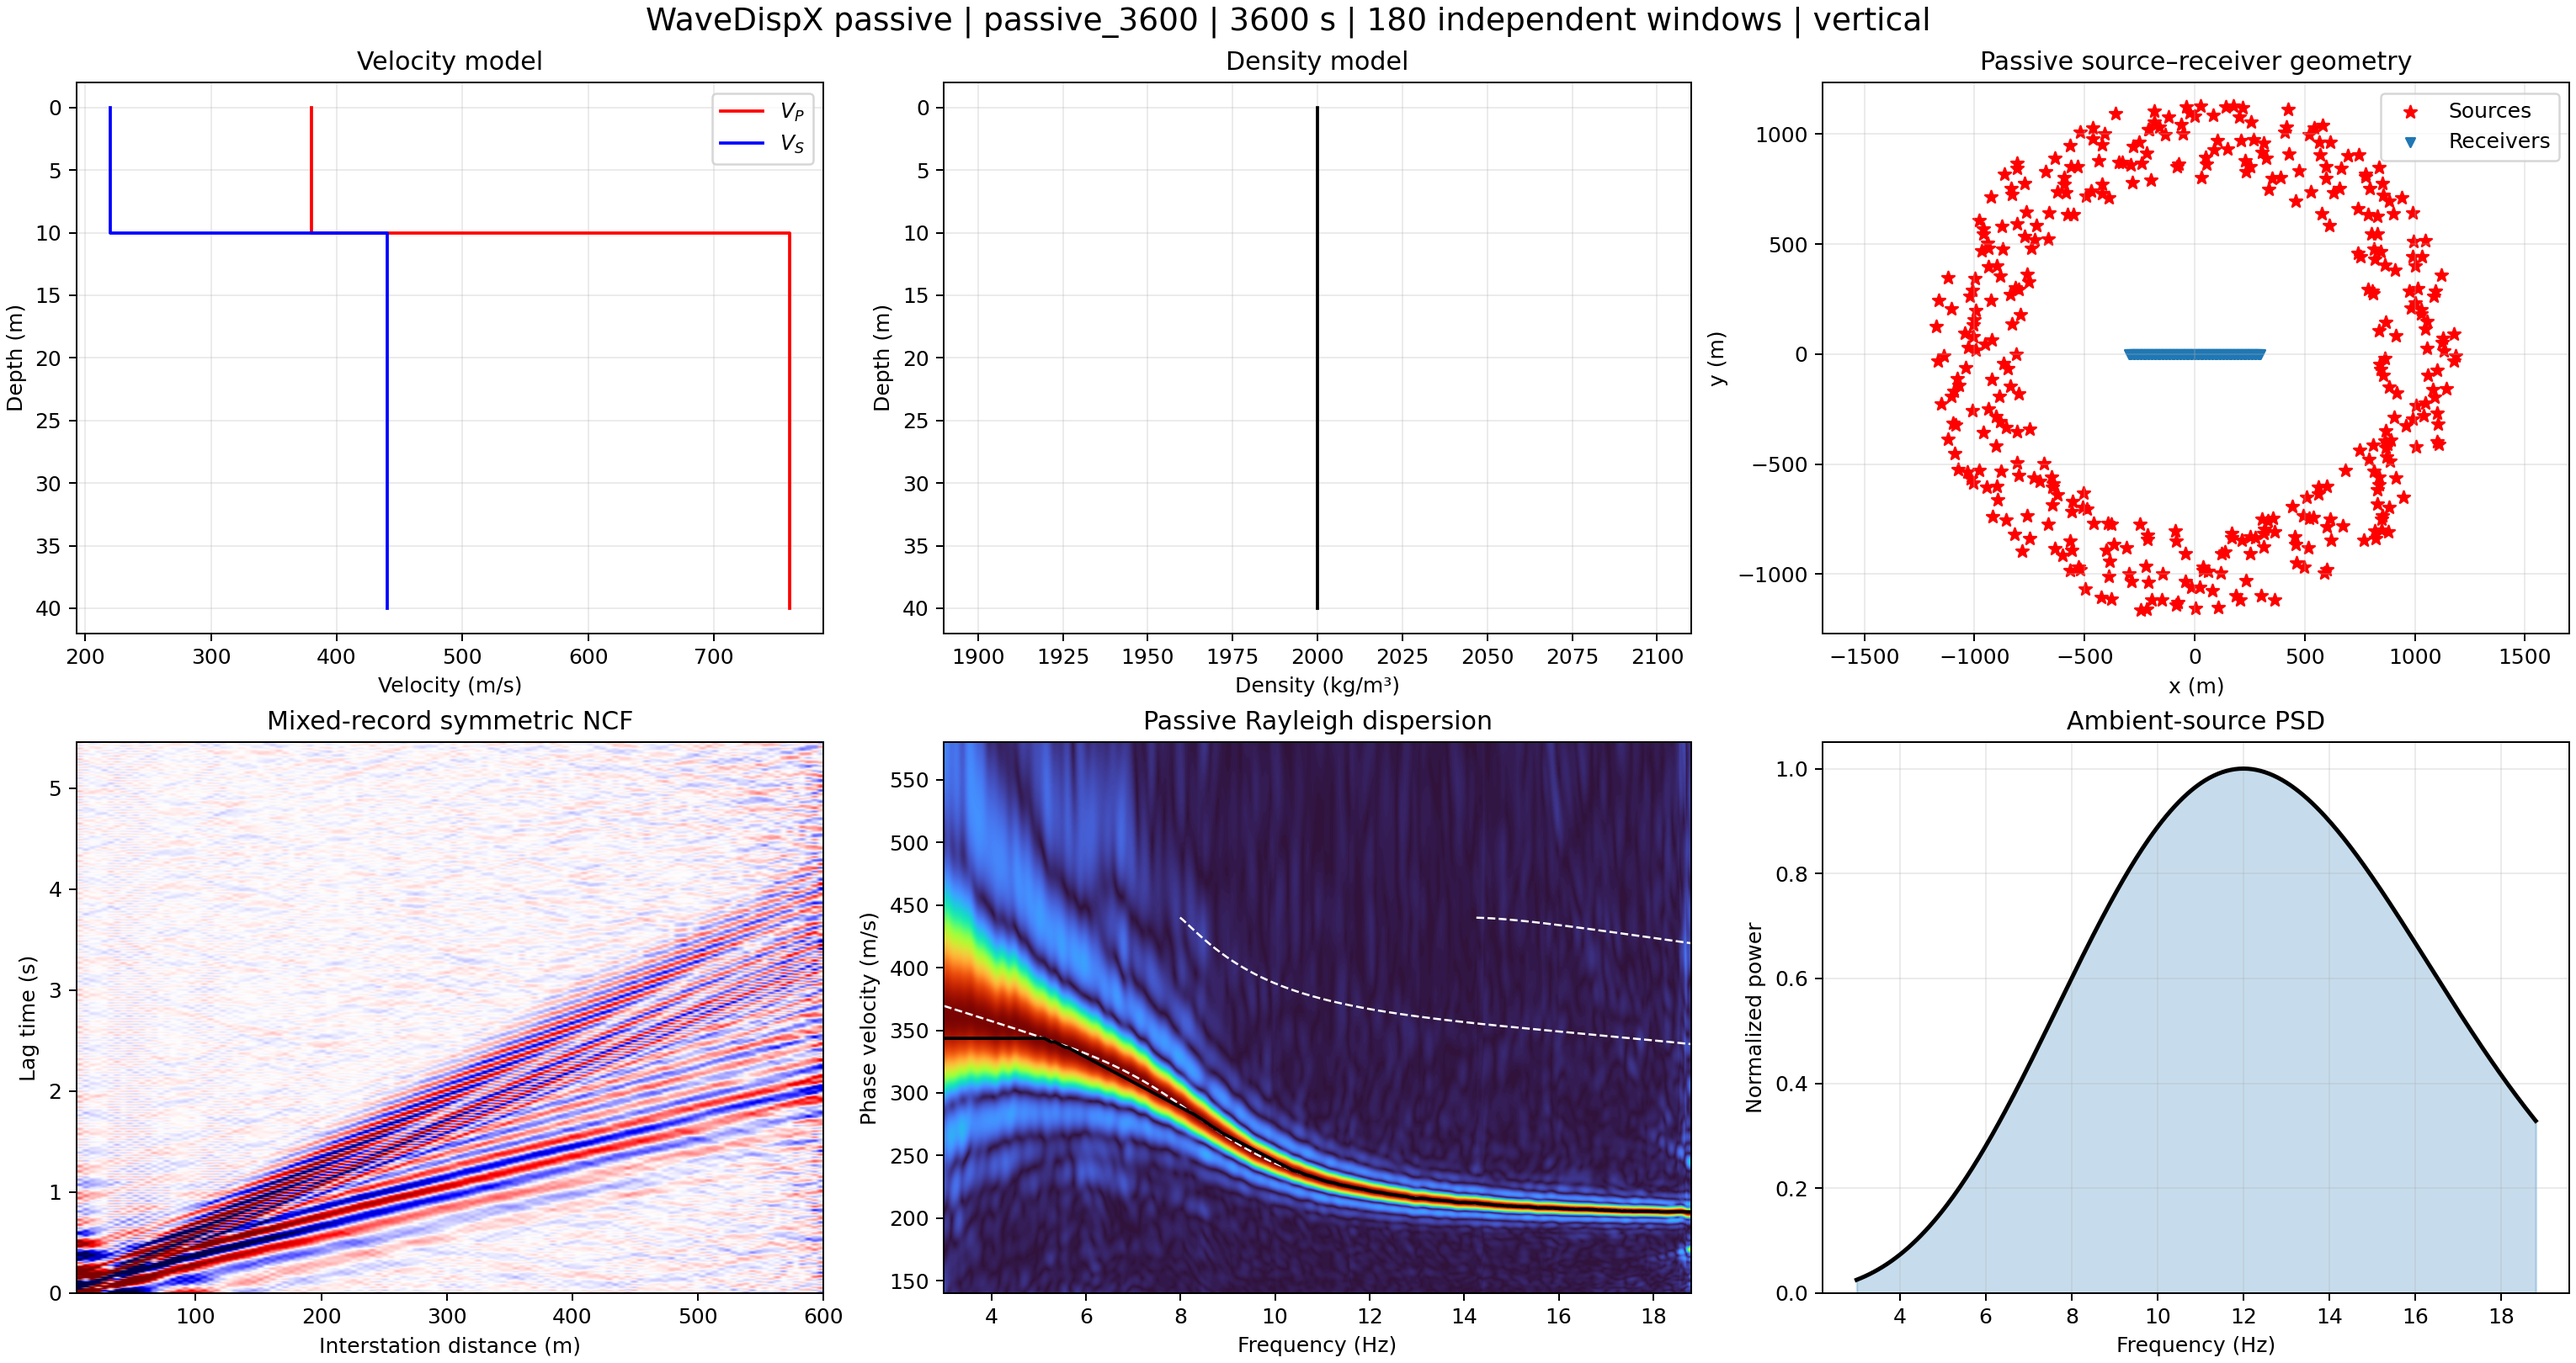
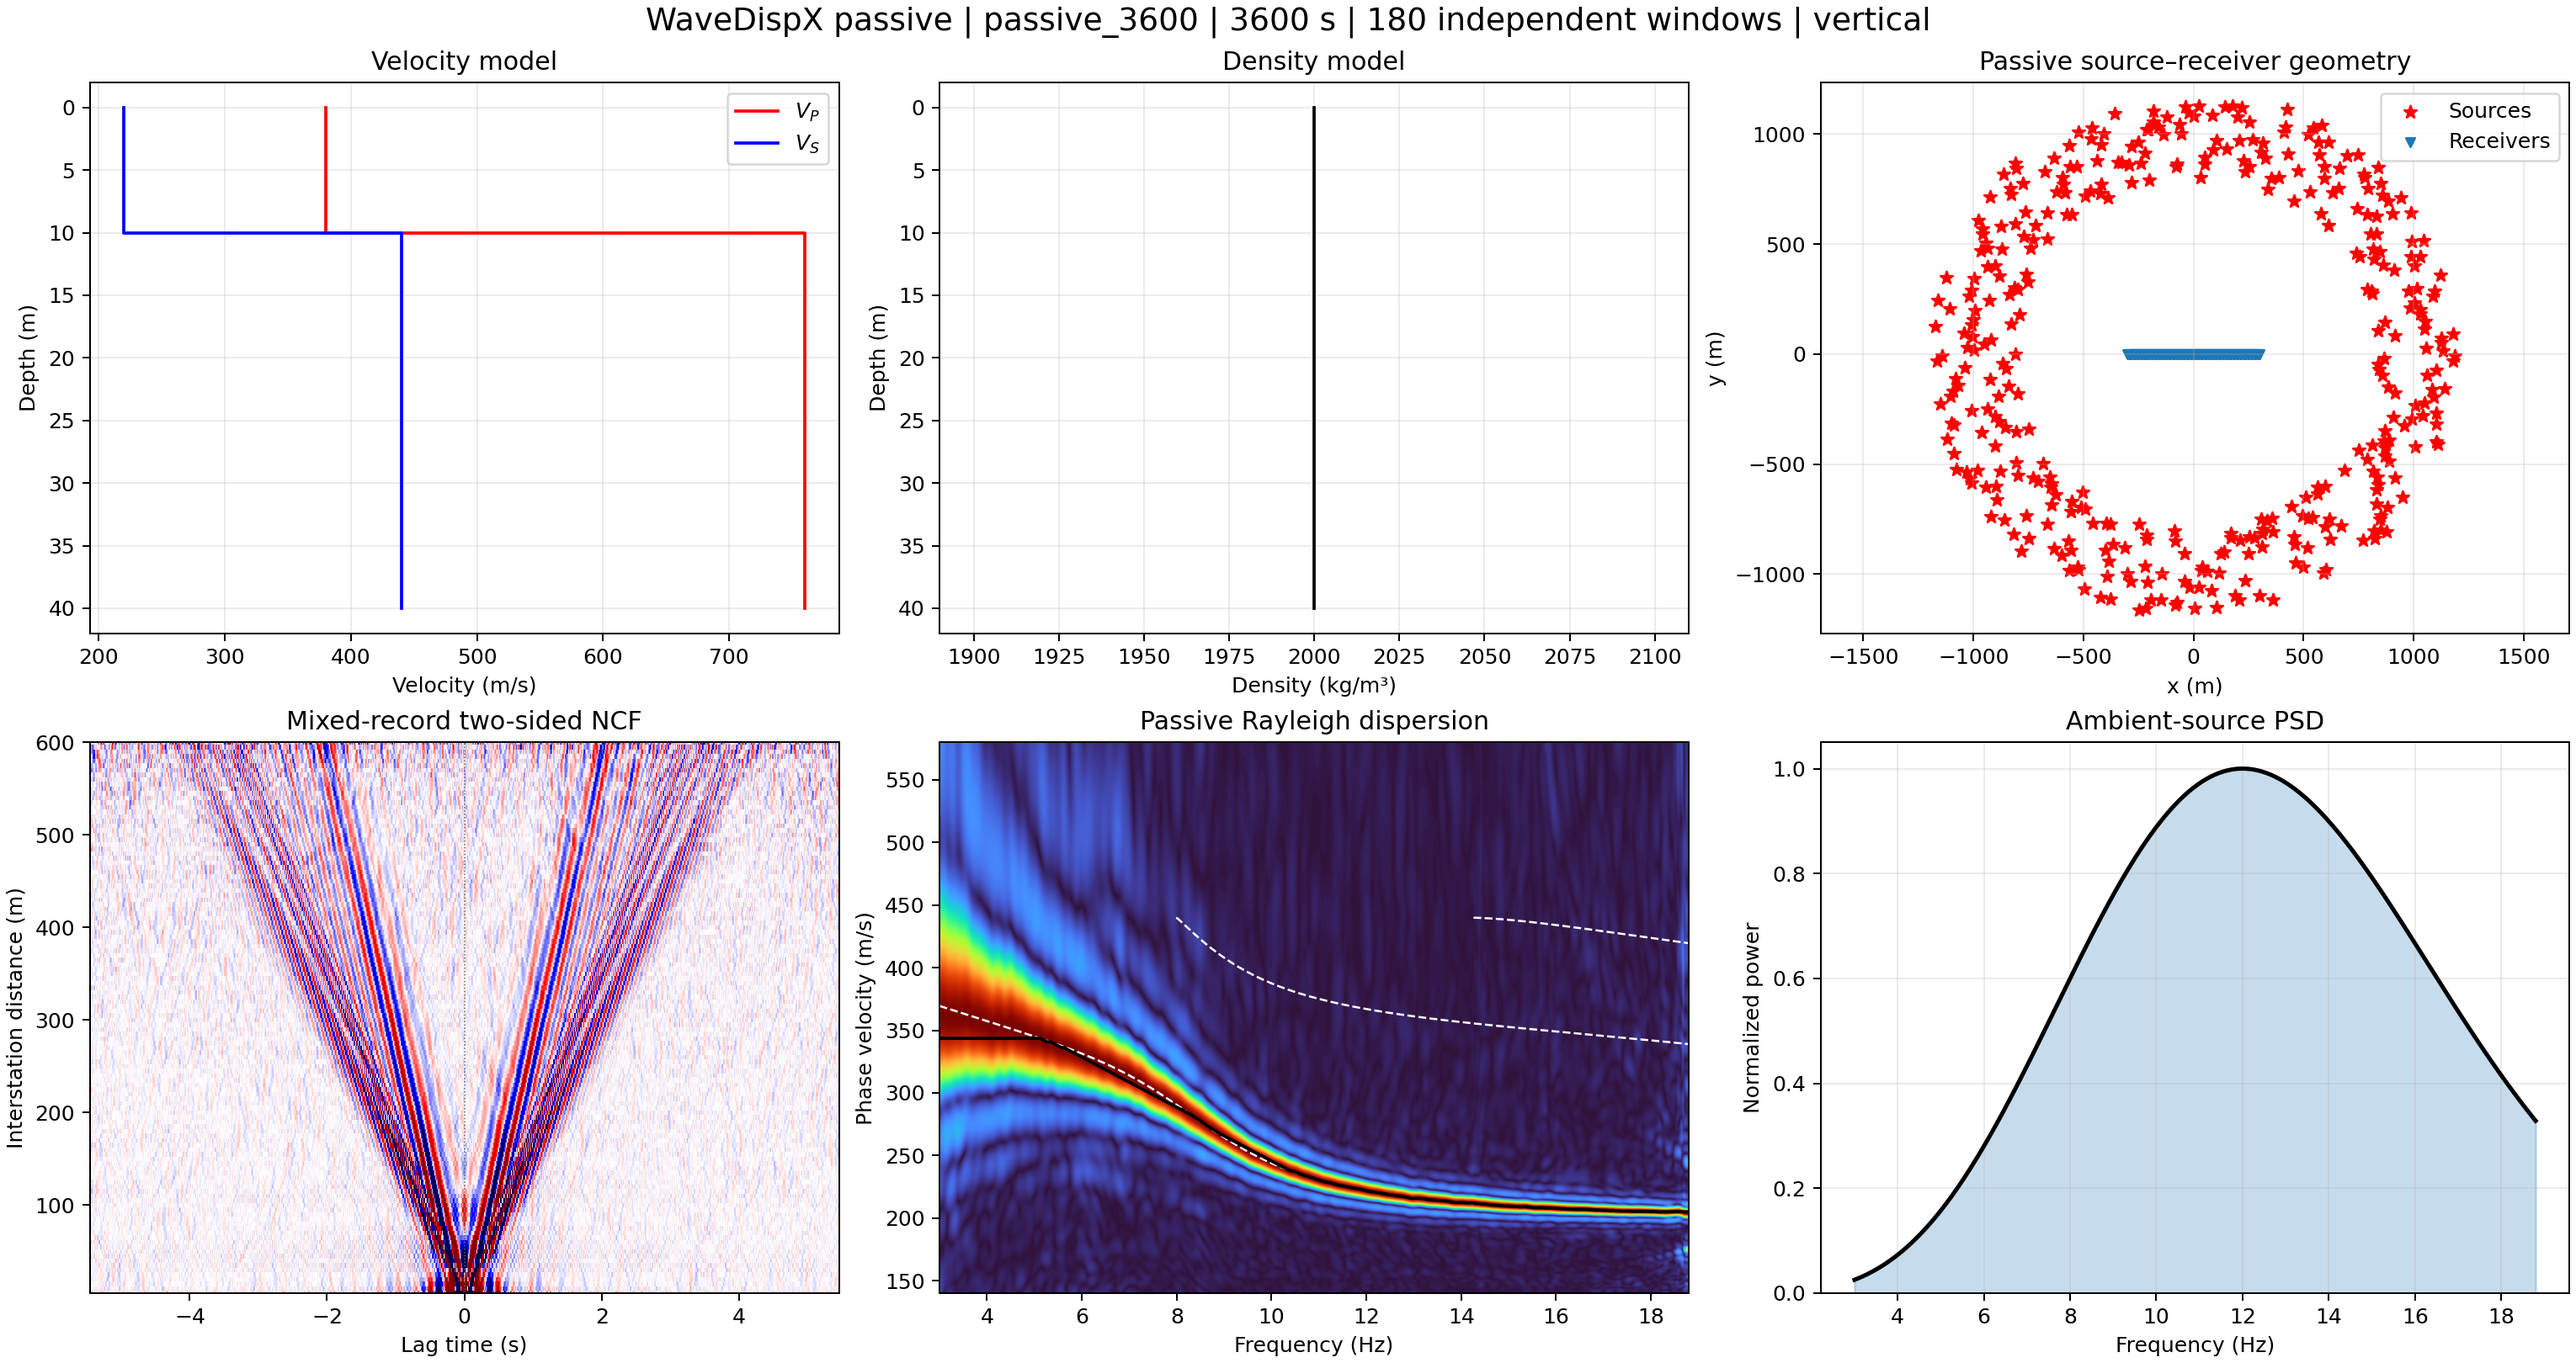
Display true two-sided NCF with lag horizontal and distance vertical

diff --git a/docs/WaveDispX_USER_MANUAL_CN.html b/docs/WaveDispX_USER_MANUAL_CN.html
@@ -60,6 +60,7 @@ S002,-20,0</pre>
 
 <section id="cases"><h2>7. 看实际波形和完整结果</h2><figure><a href="manual_assets/current-active-results.png"><img src="manual_assets/current-active-results.png" alt="当前主动结果浏览完整窗口"></a><figcaption>结果浏览页可切换汇总图、分量图和方法对照，并打开输出目录。</figcaption></figure>
 <h3>主要示例：宽频主动源与长记录被动源</h3>
+<p><strong>波形坐标约定：</strong>主动shot gather横轴为offset，纵轴为时间，0在上、时间向下增加（这是时间轴，不是深度轴）。被动NCF横轴为−T到+T的lag，纵轴为台间距，近距在下、远距在上。双边图使用真实负/正分支，不镜像对称叠加结果；频散成像仍使用原有正lag对称叠加数据，不因换图轴而改变。红蓝颜色共用整图99%绝对振幅分位裁色，未逐道归一化。</p>
 <p>本节更新后全量回归254项通过。它验证软件行为，不等于全部物理/统计收敛。</p>
 <p>新会话默认使用“被动源｜长记录示例”（384源、1800 s），而不是24源60秒quick；已打开的旧会话需自行载入模板，避免覆盖未保存编辑。下面被动主图在同一配置基础上显式延长到3600 s。</p>
 <table><tr><th>本轮实际参数</th><th>主动</th><th>被动主图</th></tr><tr><td>处理频带</td><td>4.06263–44.106054 Hz</td><td>3–18.8 Hz</td></tr><tr><td>速度范围 / dv</td><td>140–580 m/s / 0.5 m/s</td><td>140–580 m/s / 0.2 m/s</td></tr><tr><td>输出 df</td><td>0.1 Hz</td><td>0.01 Hz</td></tr><tr><td>实际保存记录 / NCF lag</td><td>2.301 s周期；末样点2.300 s；dt=0.001 s</td><td>总长3600 s；窗长20 s；最大lag=5.455 s；dt=0.005 s</td></tr><tr><td>不同时间尺度的频率间隔</td><td>1/2.301≈0.435 Hz</td><td>单噪声窗1/20=0.05 Hz；保留正lag的FFT周期5.46 s，对应约0.183 Hz</td></tr></table>

diff --git a/scripts/replot_passive_summary.py b/scripts/replot_passive_summary.py
@@ -1,0 +1,61 @@
+"""Replot saved passive data without forward/NCF/imaging recomputation."""
+import argparse
+import hashlib
+from pathlib import Path
+from types import SimpleNamespace as NS
+
+import h5py
+import matplotlib.pyplot as plt
+import numpy as np
+
+from wavedispx.config import load_config
+from wavedispx.geometry import Geometry
+from wavedispx.plotting import plot_ncf_branches, plot_passive_summary
+
+
+def main():
+    parser = argparse.ArgumentParser(description=__doc__)
+    parser.add_argument("directory", type=Path)
+    parser.add_argument("--output", type=Path)
+    args = parser.parse_args()
+    directory = args.directory
+    output = args.output or directory / "summary_two_sided.png"
+    data_path = directory / "results.h5"
+    before = hashlib.sha256(data_path.read_bytes()).hexdigest()
+    config = load_config(directory / "input.toml")
+    if config.das.enabled:
+        raise ValueError("This saved-summary utility currently supports node cases only; use the live DAS workflow plots.")
+    receivers = np.loadtxt(directory / "receivers.csv", delimiter=",", skiprows=1, ndmin=2)
+    sources = np.loadtxt(directory / "sources.csv", delimiter=",", skiprows=1, ndmin=2)
+    picks = np.loadtxt(directory / "picked_rayleigh.csv", delimiter=",", skiprows=1, ndmin=2)
+    with h5py.File(data_path, "r") as handle:
+        ncf = handle["ncf"]
+        strategy = handle["ncf/strategies/baseline_linear"]
+        branches = {}
+        for name, group in strategy["components"].items():
+            branches[name] = NS(**{
+                side: NS(data=group[side][:], lag_time_s=strategy["lag_time_s"][:],
+                         distance_m=strategy["distance_m"][:])
+                for side in ("negative", "positive", "symmetric")})
+        image = handle["dispersion/rayleigh"]
+        simulation = NS(
+            geometry=Geometry(receivers[:, 0], receivers[:, 1], sources[:, 0], sources[:, 1]),
+            transfer=NS(das_geometry=None, frequency_hz=handle["transfer/frequency_hz"][:]),
+            ncf=NS(data=ncf["gather"][:], lag_time_s=ncf["lag_time_s"][:], distance_m=ncf["distance_m"][:]),
+            strategy_stacks={"baseline_linear": NS(component_branches=branches)},
+            dispersion=NS(**{key: image[key][:] for key in ("energy", "frequency_hz", "velocity_mps")}),
+            theory=NS(rayleigh_mps=handle["theory/rayleigh_mps"][:]),
+            picks=NS(frequency_hz=picks[:, 0], phase_velocity_mps=picks[:, 1]),
+            independent_window_count=int(strategy.attrs["windows_seen"]),
+        )
+    plot_passive_summary(config, simulation, output)
+    fig, ax = plt.subplots(figsize=(10, 5), layout="constrained")
+    plot_ncf_branches(ax, branches["zz"], title="Actual two-sided ZZ NCF | distance increases upward")
+    fig.savefig(output.with_name(output.stem + "-ncf.png"), dpi=160)
+    plt.close(fig)
+    assert hashlib.sha256(data_path.read_bytes()).hexdigest() == before
+    print(f"Unchanged results.h5 SHA256: {before}\nSaved: {output}")
+
+
+if __name__ == "__main__":
+    main()

diff --git a/python_src/wavedispx/plotting.py b/python_src/wavedispx/plotting.py
@@ -19,6 +19,30 @@ from .processing import DispersionImage, DispersionPicks, TheoreticalDispersion
 from .noise import source_spectral_amplitude
 
 
+def plot_ncf_branches(axis, branches, *, title: str):
+    """Display actual negative/positive NCF, never mirror the symmetric stack.
+
+    Stored branch axes are both nonnegative lag magnitudes. Reverse the
+    negative branch, omit its duplicate zero, and sort distances for display.
+    """
+    positive, negative = branches.positive, branches.negative
+    if (not np.array_equal(positive.lag_time_s, negative.lag_time_s)
+            or not np.array_equal(positive.distance_m, negative.distance_m)):
+        raise ValueError("positive/negative NCF axes must match")
+    lag = np.concatenate((-negative.lag_time_s[:0:-1], positive.lag_time_s))
+    data = np.concatenate((negative.data[:0:-1], positive.data), axis=0)
+    order = np.argsort(positive.distance_m)
+    distance = positive.distance_m[order]
+    scale = max(float(np.percentile(np.abs(data), 99.0)), np.finfo(float).tiny)
+    artist = axis.pcolormesh(lag, distance, data[:, order].T,
+                            shading="nearest", cmap="seismic", vmin=-scale, vmax=scale)
+    axis.set(xlabel="Lag time (s)", ylabel="Interstation distance (m)", title=title)
+    axis.set_xlim(lag[0], lag[-1])
+    axis.set_ylim(distance[0], distance[-1])
+    axis.axvline(0, color="0.4", linewidth=0.6, linestyle=":")
+    return artist
+
+
 def _plot_das_geometry(axis, geometry) -> None:
     if geometry is None:
         return
@@ -305,31 +329,16 @@ def plot_passive_summary(
     axes[0, 2].legend()
     axes[0, 2].grid(alpha=0.25)
     axes[0, 2].set_aspect("equal", adjustable="datalim")
-    ncf = simulation.ncf.data
-    ncf_scale = np.percentile(np.abs(ncf), 99.0)
-    axes[1, 0].imshow(
-        ncf,
-        origin="lower",
-        aspect="auto",
-        extent=(
-            simulation.ncf.distance_m[0],
-            simulation.ncf.distance_m[-1],
-            simulation.ncf.lag_time_s[0],
-            simulation.ncf.lag_time_s[-1],
-        ),
-        cmap="seismic",
-        vmin=-ncf_scale,
-        vmax=ncf_scale,
-    )
-    axes[1, 0].set(
-        xlabel="Interstation distance (m)",
-        ylabel="Lag time (s)",
+    component = "das" if config.das.enabled else "zz"
+    plot_ncf_branches(
+        axes[1, 0],
+        simulation.strategy_stacks["baseline_linear"].component_branches[component],
         title=(
-            "Mixed-record symmetric DAS-DAS NCF"
+            "Mixed-record two-sided DAS-DAS NCF"
             if config.das.enabled
-            else "Mixed-record symmetric ZZ NCF"
+            else "Mixed-record two-sided ZZ NCF"
             if config.ambient_sources.component == "three_component"
-            else "Mixed-record symmetric NCF"
+            else "Mixed-record two-sided NCF"
         ),
     )
     _plot_dispersion(

diff --git a/python_src/wavedispx/workflow_plotting.py b/python_src/wavedispx/workflow_plotting.py
@@ -6,6 +6,7 @@ import matplotlib.pyplot as plt
 import numpy as np
 
 from .workflow import WaveDispXWorkflow
+from .plotting import plot_ncf_branches
 
 
 def plot_receiver_layout_comparison(reviews: dict[str, object]):
@@ -198,25 +199,9 @@ def plot_workflow_observations(workflow: WaveDispXWorkflow):
             )
         ),
     )
-    ncf = observations.ncf.data
-    ncf_scale = np.percentile(np.abs(ncf), 99.0)
-    axes[1].imshow(
-        ncf,
-        origin="lower",
-        aspect="auto",
-        extent=(
-            observations.ncf.distance_m[0],
-            observations.ncf.distance_m[-1],
-            observations.ncf.lag_time_s[0],
-            observations.ncf.lag_time_s[-1],
-        ),
-        cmap="seismic",
-        vmin=-ncf_scale,
-        vmax=ncf_scale,
-    )
-    axes[1].set(
-        xlabel="Interreceiver distance (m)",
-        ylabel="Lag time (s)",
+    branches = observations.strategy_stacks["baseline_linear"].component_branches
+    plot_ncf_branches(
+        axes[1], branches["das" if workflow.config.das.enabled else "zz"],
         title=(
             f"DAS–DAS NCF ({observations.independent_window_count} windows)"
             if workflow.config.das.enabled
@@ -224,26 +209,14 @@ def plot_workflow_observations(workflow: WaveDispXWorkflow):
         ),
     )
     if three_component:
-        rr = observations.component_ncfs["rr"]
-        rr_scale = np.percentile(np.abs(rr.data), 99.0)
-        axes[2].imshow(
-            rr.data,
-            origin="lower",
-            aspect="auto",
-            extent=(rr.distance_m[0], rr.distance_m[-1], rr.lag_time_s[0], rr.lag_time_s[-1]),
-            cmap="seismic",
-            vmin=-rr_scale,
-            vmax=rr_scale,
-        )
-        axes[2].set(
-            xlabel="Interreceiver distance (m)",
-            ylabel="Lag time (s)",
+        plot_ncf_branches(
+            axes[2], branches["rr"],
             title=f"Pair-rotated RR NCF ({observations.independent_window_count} windows)",
         )
     figure.suptitle(
         f"Passive finite record {workflow.config.noise.duration_s:g} s | "
         f"independent window {workflow.config.noise.window_s:g} s | "
-        f"displayed NCF lag 0–{observations.ncf.lag_time_s[-1]:.3f} s"
+        f"two-sided NCF lag ±{observations.ncf.lag_time_s[-1]:.3f} s"
     )
     return figure
 

diff --git a/python_tests/test_plotting_axes.py b/python_tests/test_plotting_axes.py
@@ -1,0 +1,38 @@
+from types import SimpleNamespace as NS
+
+import matplotlib.pyplot as plt
+import numpy as np
+
+from wavedispx.plotting import plot_ncf_branches
+from wavedispx.workflow_plotting import plot_workflow_forward
+
+
+def test_ncf_uses_true_negative_branch_single_zero_and_near_to_far_rows():
+    lag = np.array([0., 1., 2.])
+    distance = np.array([20., 5.])
+    pos = np.array([[0., 0.], [1., 2.], [3., 4.]])
+    neg = np.array([[0., 0.], [10., 20.], [30., 40.]])
+    branches = NS(positive=NS(lag_time_s=lag, distance_m=distance, data=pos),
+                  negative=NS(lag_time_s=lag, distance_m=distance, data=neg))
+    fig, ax = plt.subplots()
+    mesh = plot_ncf_branches(ax, branches, title="Test")
+    np.testing.assert_array_equal(mesh.get_array(), [[40., 20., 0., 2., 4.], [30., 10., 0., 1., 3.]])
+    assert ax.get_xlim() == (-2., 2.)
+    assert ax.get_ylim() == (5., 20.)
+    assert ax.get_xlabel() == "Lag time (s)"
+    np.testing.assert_array_equal(branches.negative.data, neg)
+    plt.close(fig)
+
+
+def test_active_gather_keeps_time_zero_at_top():
+    shot = NS(distance_m=np.array([20., 5., 10.]), time_s=np.arange(5.) / 10,
+              vertical_vertical=np.ones((5, 3)), horizontal_tangential=np.ones((5, 3)),
+              das_record=None)
+    workflow = NS(compute_forward=lambda: shot,
+                  config=NS(mode="active", active_source=NS(dt_s=0.1)))
+    fig = plot_workflow_forward(workflow)
+    for ax in fig.axes:
+        assert ax.get_ylim() == (0.4, 0.)
+        assert ax.get_xlim() == (5., 20.)
+        assert ax.get_ylabel() == "Time (s)"
+    plt.close(fig)

diff --git a/docs/forward_workflow/EVIDENCE_REGISTER.md b/docs/forward_workflow/EVIDENCE_REGISTER.md
@@ -1,5 +1,15 @@
 # WaveDispX DAS 本地证据登记
 
+## PLOT-AXES-003：双边NCF显示（2026-09-17）
+
+仅显示修改：被动横轴−T…+T，纵轴距离从近（下）到远（上）；主动保持offset横轴、0在上且向下增长的时间轴。汇总图及网页/桌面/Notebook共享阶段绘图统一使用此约定。
+使用baseline_linear的实际negative/positive分支，反转负支并去掉重复零点后拼接，不镜像symmetric分支；距离排序只用于显示。共用全图99%绝对幅值分位裁色，不逐道归一化。频散仍使用原有symmetric数据，未改变计算。
+
[1 lines of base64/hex data omitted]
+QC `docs/manual_assets/showcase-passive-summary-ncf.png` 已查看；汇总图同步更新。
+回归 `test_plotting_axes.py test_workflow.py test_runner.py test_das.py`：**37 passed in 22.27s**，验证实际异幅正负支、唯一零点、距离排序、主动时间轴方向和运行保存链路。
[1 lines of base64/hex data omitted]
+
 ## AUTO-SHOWCASE-002：推荐策略修订与手册实算（2026-09-17）
 
 状态：指定两层算例完成实算与图像检查；**不是完全统计收敛/跨求解器验收**。
